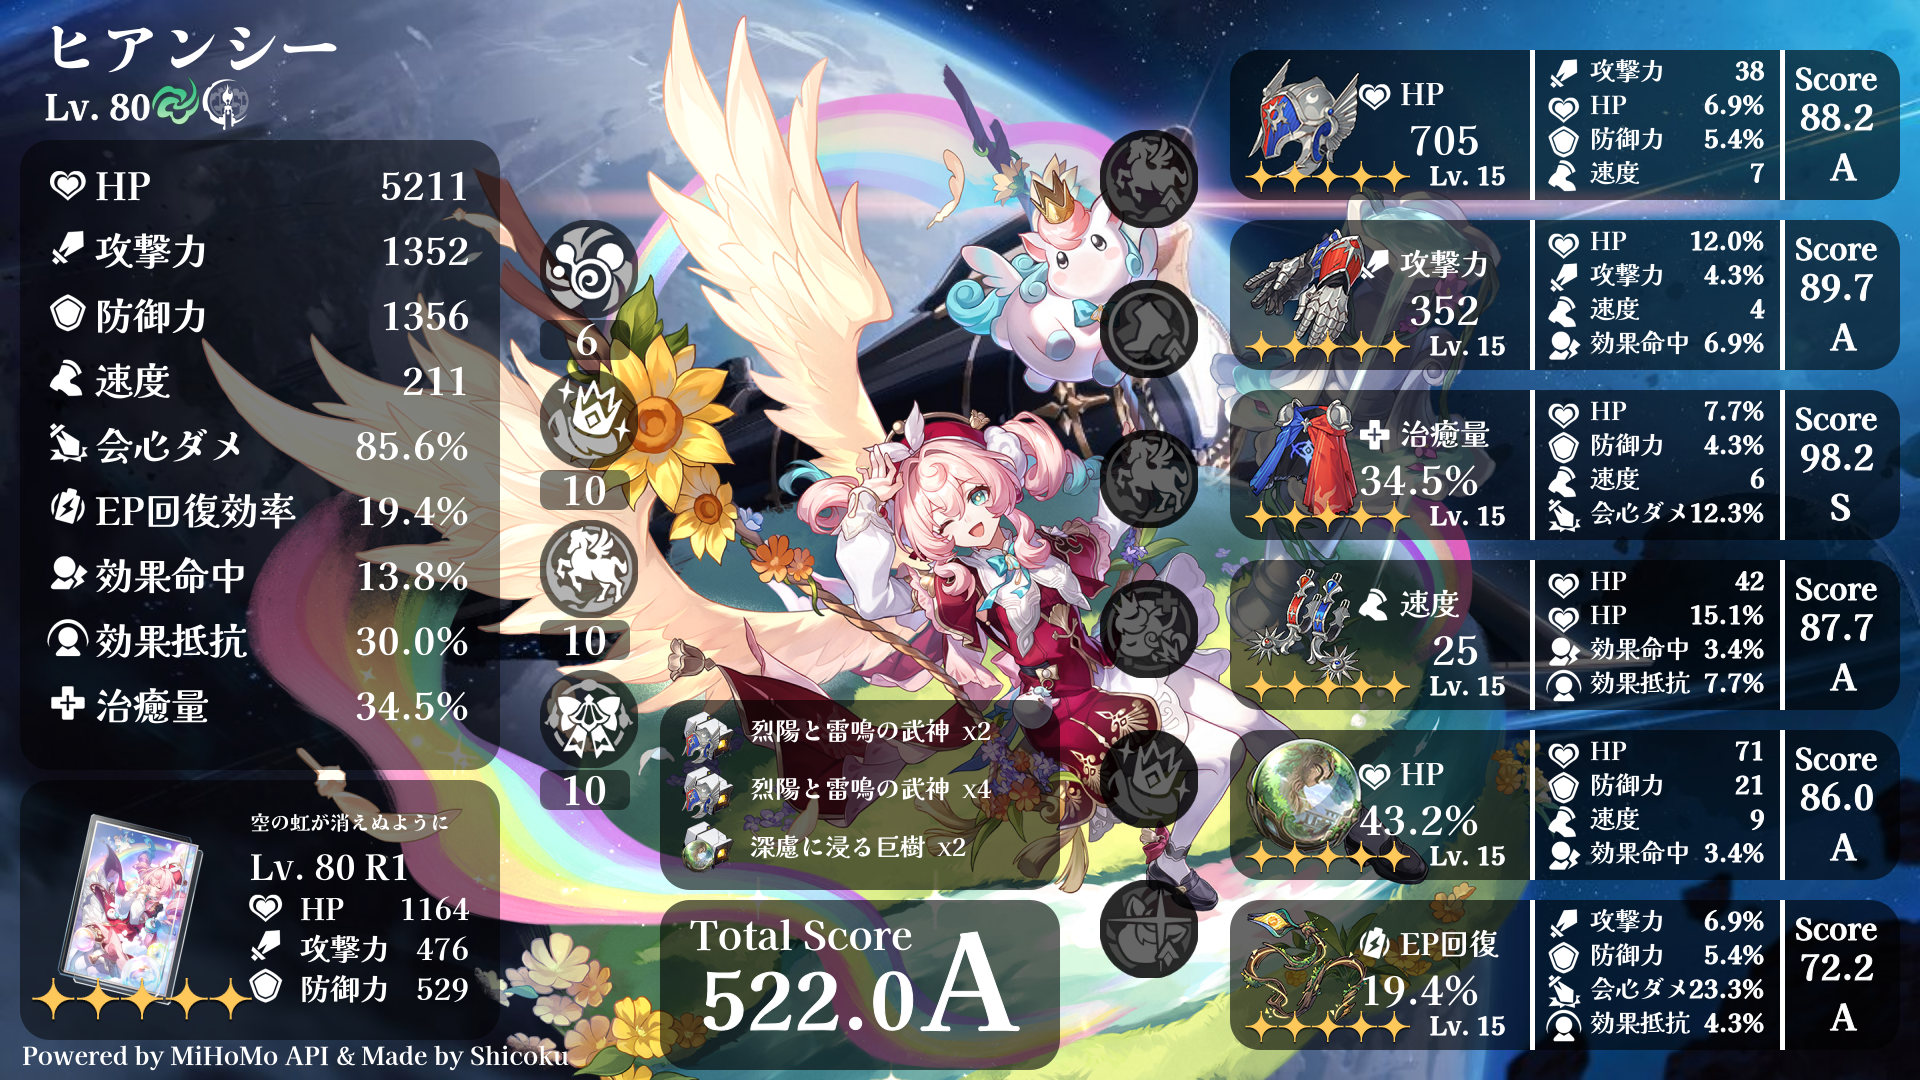
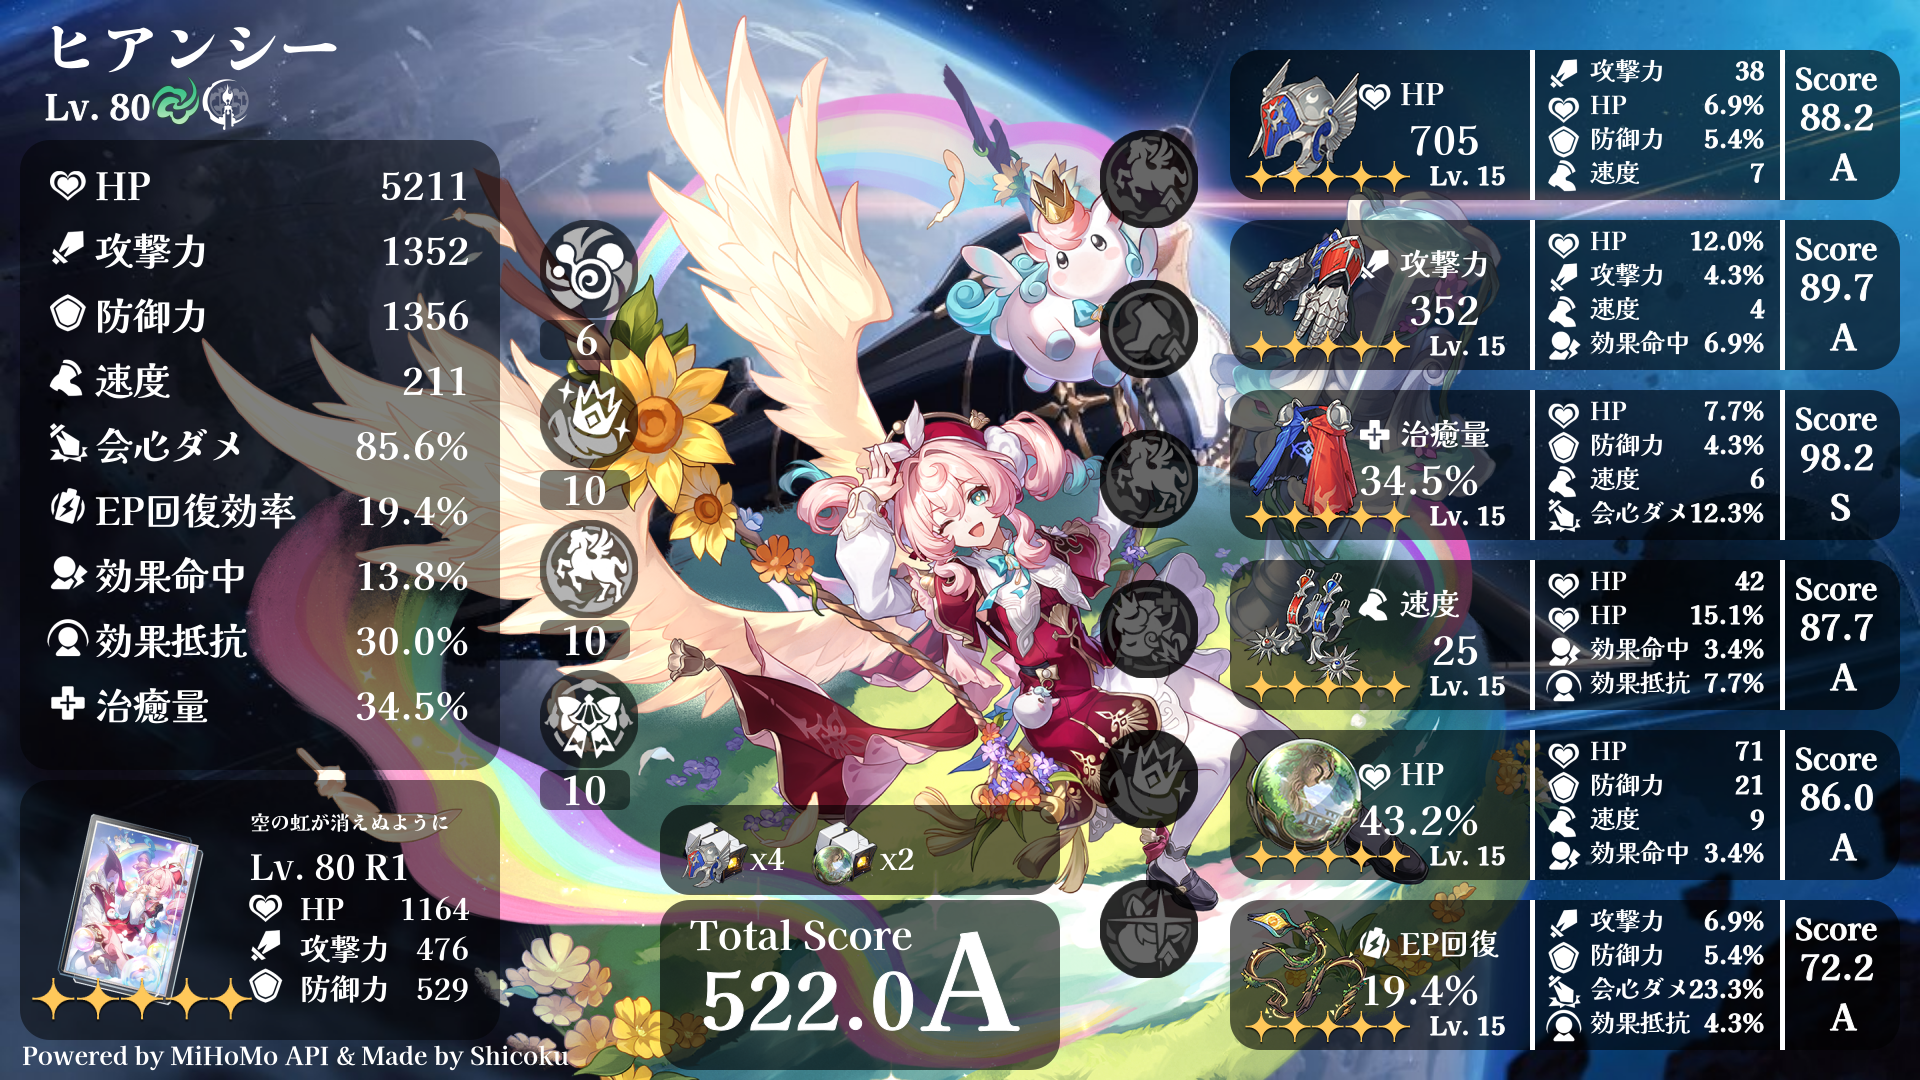
Add files via upload

Changed region(s): [[0.3438, 0.6417, 0.5625, 0.8556]]

diff --git a/MiHoMo.js b/MiHoMo.js
@@ -352,18 +352,20 @@ async function createImg(json) {
 
   // 遺物セット描画
   if (json["relic_sets"]) {
-    for (let i = 0; i < json["relic_sets"].length; i++) {
+    fillRoundRect(ctx, 660, 805, 400, 90, 30, "rgba(0,0,0,0.6)");
+    let i = 0;
+    let point = 0;
+    if (json["relic_sets"][0]["name"] == json["relic_sets"][1]["name"]) i = 1;
+    for (i; i < json["relic_sets"].length; i++) {
       await loadImage(json["relic_sets"][i]["icon"]).then((img) => {
-        if (i == 0) {
-          fillRoundRect(ctx, 660, 700, 400, 190, 30, "rgba(0,0,0,0.6)");
-        }
-        ctx.drawImage(img, 680, 710 + i * 55, img.width / 2.3, img.height / 2.3);
+        ctx.drawImage(img, 680 + point * 130, 820, 70, 70);
 
         ctx.fillStyle = "rgb(255, 255, 255)";
         ctx.textAlign = "left";
-        ctx.font = '25px "kt"';
-        ctx.fillText(json["relic_sets"][i]["name"] + "  x" + json["relic_sets"][i]["num"], 750, 740 + i * 58);
+        ctx.font = '30px "kt"';
+        ctx.fillText("x" + json["relic_sets"][i]["num"], 750 + point * 130, 870);
       });
+      point++;
     }
   }
 

diff --git a/doc/changelog.md b/doc/changelog.md
@@ -38,3 +38,9 @@
   - `font/`、`img/`を`assets/`内へ
   - [ChangeLog](./changelog.md)を`doc/`内へ
   - `build-card.png`を`public/`内へ
+
+## 2025.6.30 v.1.0.2
+- ビルドカードのデザインを調整
+  - 遺物名表示を廃止
+  - 4セットの場合、2セット表示を廃止
+  - 横並びにし、枠を細く
